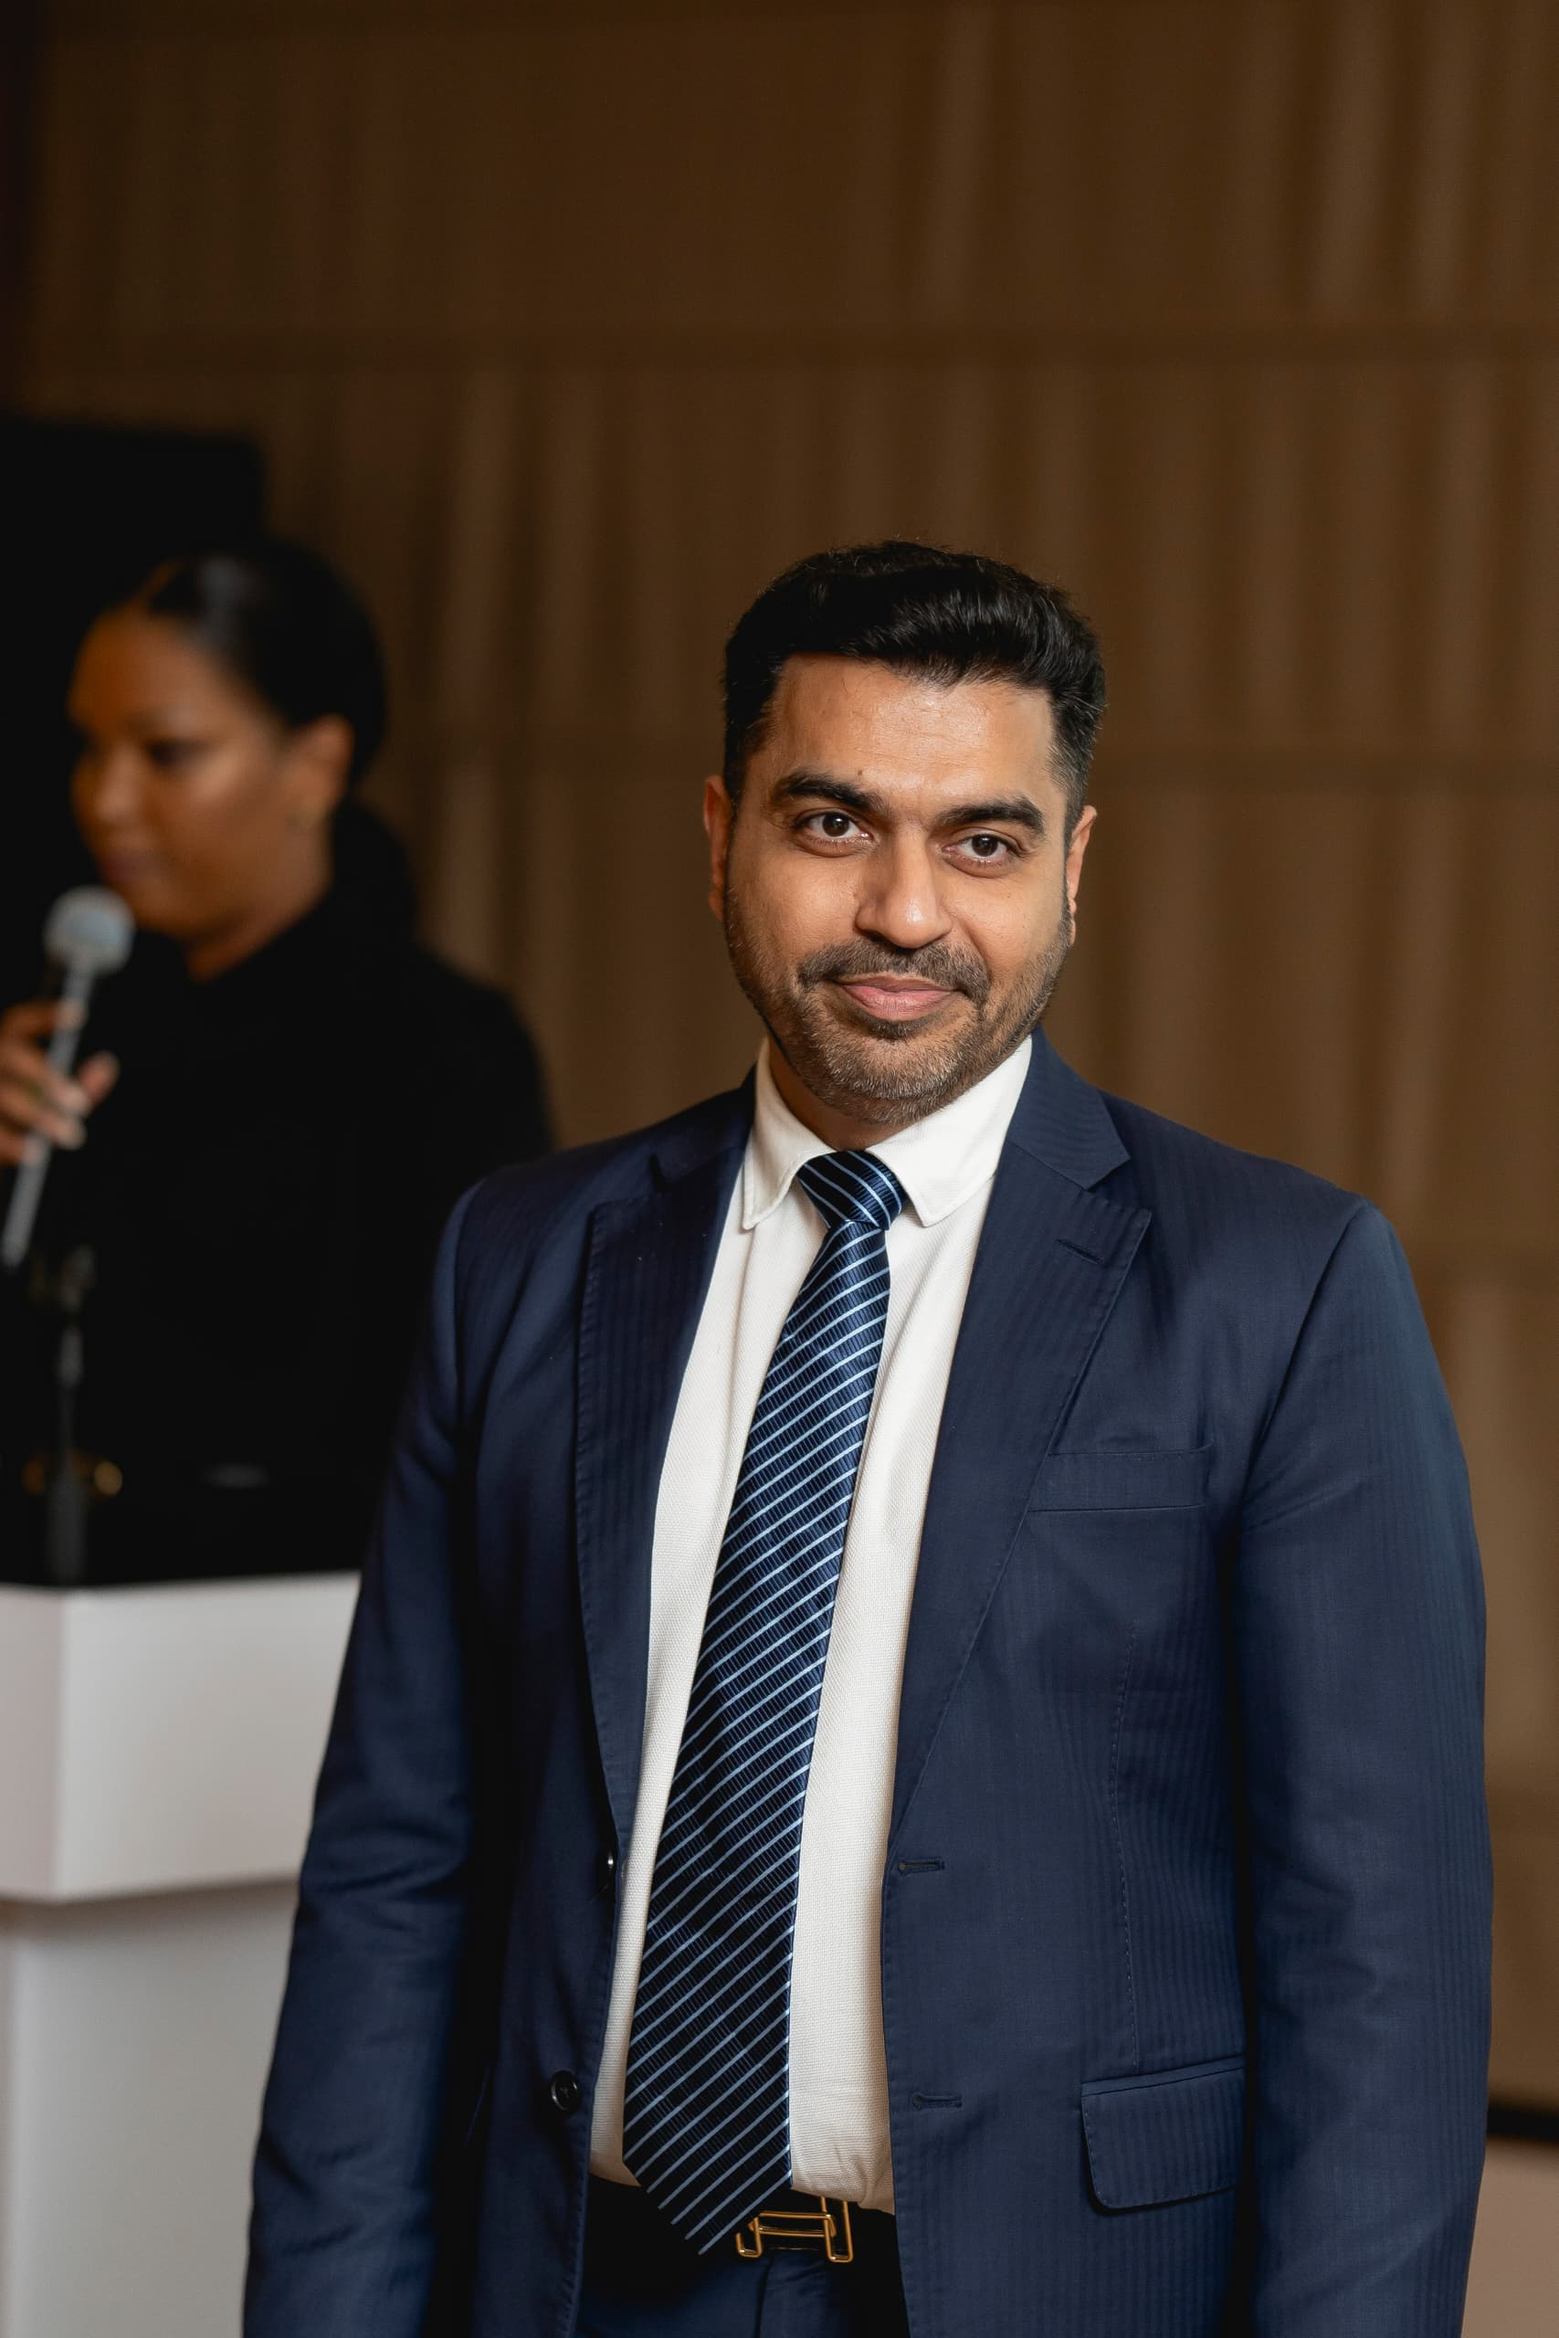
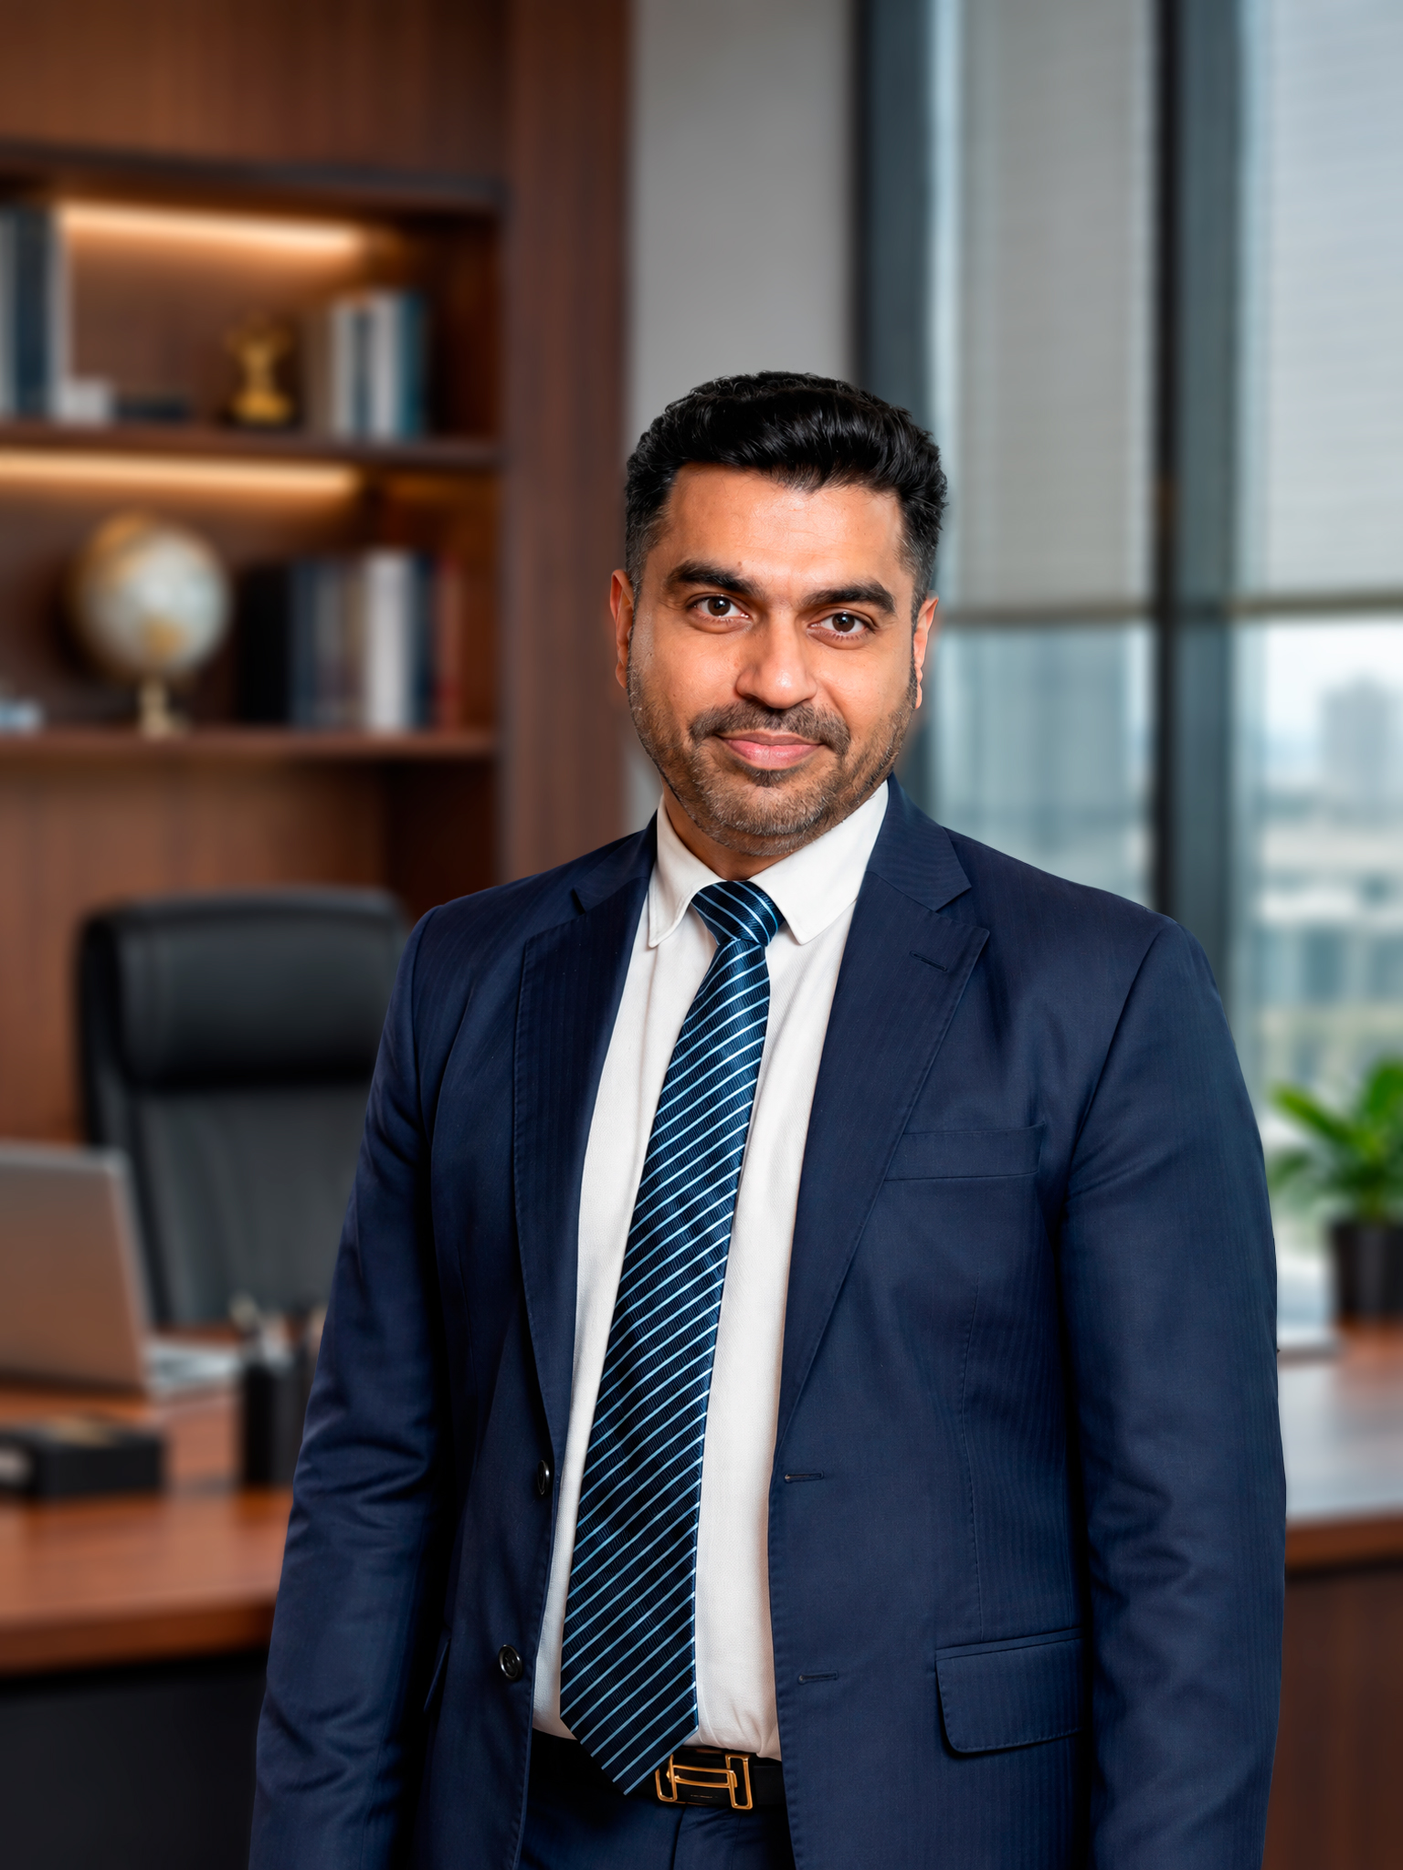
feat: update hero section images and add responsive positioning

diff --git a/web/components/sections/HeroCinematic.tsx b/web/components/sections/HeroCinematic.tsx
@@ -3,7 +3,7 @@
 import Image from "next/image";
 import { AnimatePresence, motion, useScroll, useTransform } from "framer-motion";
 import { ChevronLeft, ChevronRight } from "@/lib/icons";
-import { useCallback, useEffect, useRef, useState } from "react";
+import { useCallback, useEffect, useRef, useState, type CSSProperties } from "react";
 
 import { useTranslations } from "next-intl";
 
@@ -27,6 +27,8 @@ export type HeroSlide = {
   alt: string;
   /** Cadrage de la photo (object-position), ex. « 50% 62% » pour un portrait. */
   position?: string;
+  /** Cadrage sur mobile (moins de 768 px), `position` par défaut. */
+  mobilePosition?: string;
 };
 
 type HeroCinematicProps = {
@@ -61,6 +63,13 @@ export function HeroCinematic({ slides, siteName, pills = [], className = "" }: 
 
   const len = list.length;
   const safeIndex = len ? index % len : 0;
+
+  // Photos montées : la photo affichée et ses deux voisines, puis celles déjà
+  // vues (pas de rechargement). Toutes les photos sont empilées « à l'écran » :
+  // le chargement différé du navigateur les demanderait toutes d'un coup.
+  const around = len ? [safeIndex, (safeIndex + 1) % len, (safeIndex - 1 + len) % len] : [];
+  const [mounted, setMounted] = useState<ReadonlySet<number>>(() => new Set(around));
+  if (around.some((i) => !mounted.has(i))) setMounted(new Set([...mounted, ...around]));
   /** « Cen21 Hospitality » → « Hospitality » : mot d'accent en cursive, au dégradé Refined Rosé. */
   const titleAccent = siteName.split(" ").slice(1).join(" ");
 
@@ -116,6 +125,7 @@ export function HeroCinematic({ slides, siteName, pills = [], className = "" }: 
               aria-hidden={!isActive}
             >
               <div className={`relative h-full w-full ${isActive && !reducedMotion ? "animate-ken-burns" : ""}`}>
+                {mounted.has(i) && (
                 <Image
                   src={slide.src}
                   alt={slide.alt}
@@ -124,10 +134,16 @@ export function HeroCinematic({ slides, siteName, pills = [], className = "" }: 
                   fetchPriority={i === 0 ? "high" : "auto"}
                   placeholder="blur"
                   blurDataURL={BLUR_PETROL}
-                  className="object-cover object-center"
-                  style={slide.position ? { objectPosition: slide.position } : undefined}
+                  className="hero-slide-img object-cover"
+                  style={
+                    {
+                      "--slide-pos": slide.position ?? "50% 50%",
+                      "--slide-pos-m": slide.mobilePosition ?? slide.position ?? "50% 50%",
+                    } as CSSProperties
+                  }
                   sizes="100vw"
                 />
+                )}
               </div>
             </div>
           );

diff --git a/web/lib/types.ts b/web/lib/types.ts
@@ -444,8 +444,12 @@ export type SiteConfig = {
   social: SocialLinks;
   /** @deprecated préférer heroSlides */
   heroImage: string;
-  /** Diaporama du hero d'accueil ; `position` : cadrage (object-position), ex. « 50% 62% ». */
-  heroSlides?: { src: string; alt: string; position?: string }[];
+  /**
+   * Diaporama du hero d'accueil ; `position` : cadrage (object-position), ex.
+   * « 50% 62% » ; `mobilePosition` : cadrage sur mobile (écran vertical : seul
+   * le cadrage horizontal compte), `position` par défaut.
+   */
+  heroSlides?: { src: string; alt: string; position?: string; mobilePosition?: string }[];
   /** @deprecated préférer experienceVideos */
   experienceYoutubeId?: string;
   /** Vidéos de la section Expérience (slider horizontal). */

diff --git a/web/app/globals.css b/web/app/globals.css
@@ -1192,6 +1192,18 @@ body:has(> [data-capsule-nav]) [data-surface="light"] [data-surface="dark"] .btn
 
 /* Ombre noire derrière la zone des textes, fondue vers le reste de la photo.
    Mobile : le texte occupe toute la largeur du bas, l'ombre monte du bas. */
+/* Cadrage des photos du hero d'accueil : un réglage ordinateur et un réglage
+   mobile (écran vertical) par photo (site.json de chaque langue → heroSlides). */
+.hero-slide-img {
+  object-position: var(--slide-pos-m, 50% 50%);
+}
+
+@media (min-width: 768px) {
+  .hero-slide-img {
+    object-position: var(--slide-pos, 50% 50%);
+  }
+}
+
 .hero-text-shade {
   background: linear-gradient(to top, rgb(0 0 0 / 0.78) 0%, rgb(0 0 0 / 0.55) 35%, rgb(0 0 0 / 0.18) 62%, transparent 80%);
 }
